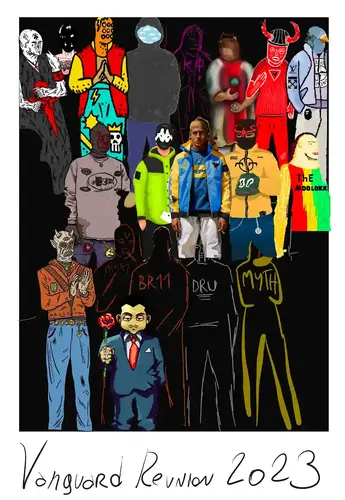
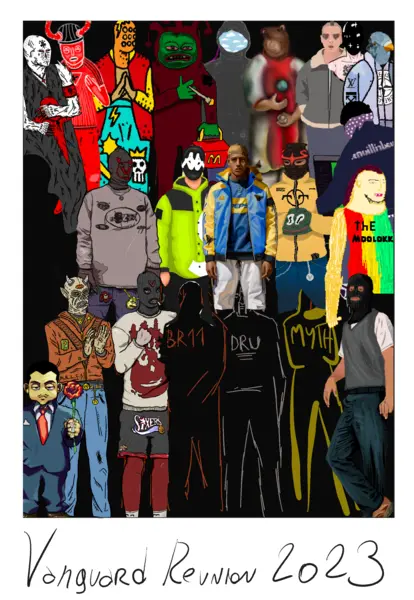
br11 & myth cards added

diff --git a/src/db/db.jsx b/src/db/db.jsx
@@ -70,6 +70,10 @@ import vCard82 from '../assets/82.webp'
 import vCard83 from '../assets/83.webp'
 import vCard84 from '../assets/84.webp'
 import vCard85 from '../assets/85.webp'
+import vCard86 from '../assets/86.webp'
+import vCard87 from '../assets/87.webp'
+import vCard88 from '../assets/88.webp'
+import vCard89 from '../assets/89.webp'
 
 const DUMMY_ARTS = [
     {
@@ -720,6 +724,42 @@ const DUMMY_ARTS = [
         isSold: 0,
         url: "https://objkt.com/asset/KT1FiPKiRQ39UJCcixmidYRQtkvnm7peQuYJ/85",
         eds: 5
+    },
+    {
+        id: 86,
+        title: "PEPO KO",
+        artist: "Br11 ⁂",
+        img: vCard86,
+        isSold: 0,
+        url: "https://objkt.com/asset/KT1FiPKiRQ39UJCcixmidYRQtkvnm7peQuYJ/86",
+        eds: 15
+    },
+    {
+        id: 87,
+        title: "Vanana - The Vanguard Samurai",
+        artist: "Br11 ⁂",
+        img: vCard87,
+        isSold: 0,
+        url: "https://objkt.com/asset/KT1FiPKiRQ39UJCcixmidYRQtkvnm7peQuYJ/87",
+        eds: 5
+    },
+    {
+        id: 88,
+        title: "Vanana Samurai - Harakiri",
+        artist: "Br11 ⁂",
+        img: vCard88,
+        isSold: 0,
+        url: "https://objkt.com/asset/KT1FiPKiRQ39UJCcixmidYRQtkvnm7peQuYJ/88",
+        eds: 10
+    },
+    {
+        id: 89,
+        title: "The Man, The Myth, The Vanguard",
+        artist: "The Myth",
+        img: vCard89,
+        isSold: 0,
+        url: "https://objkt.com/asset/KT1FiPKiRQ39UJCcixmidYRQtkvnm7peQuYJ/89",
+        eds: 15
     },
 
   ];
